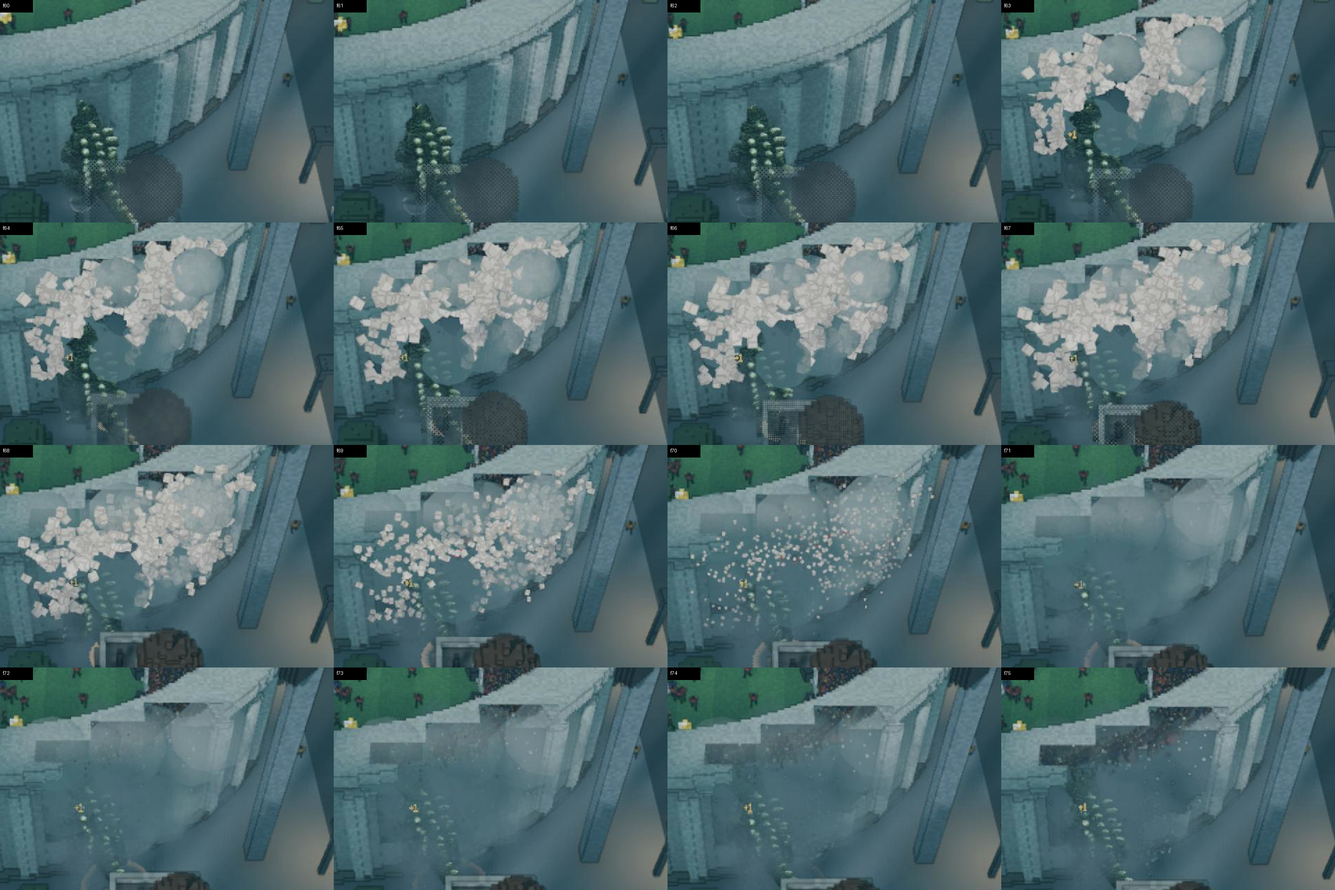
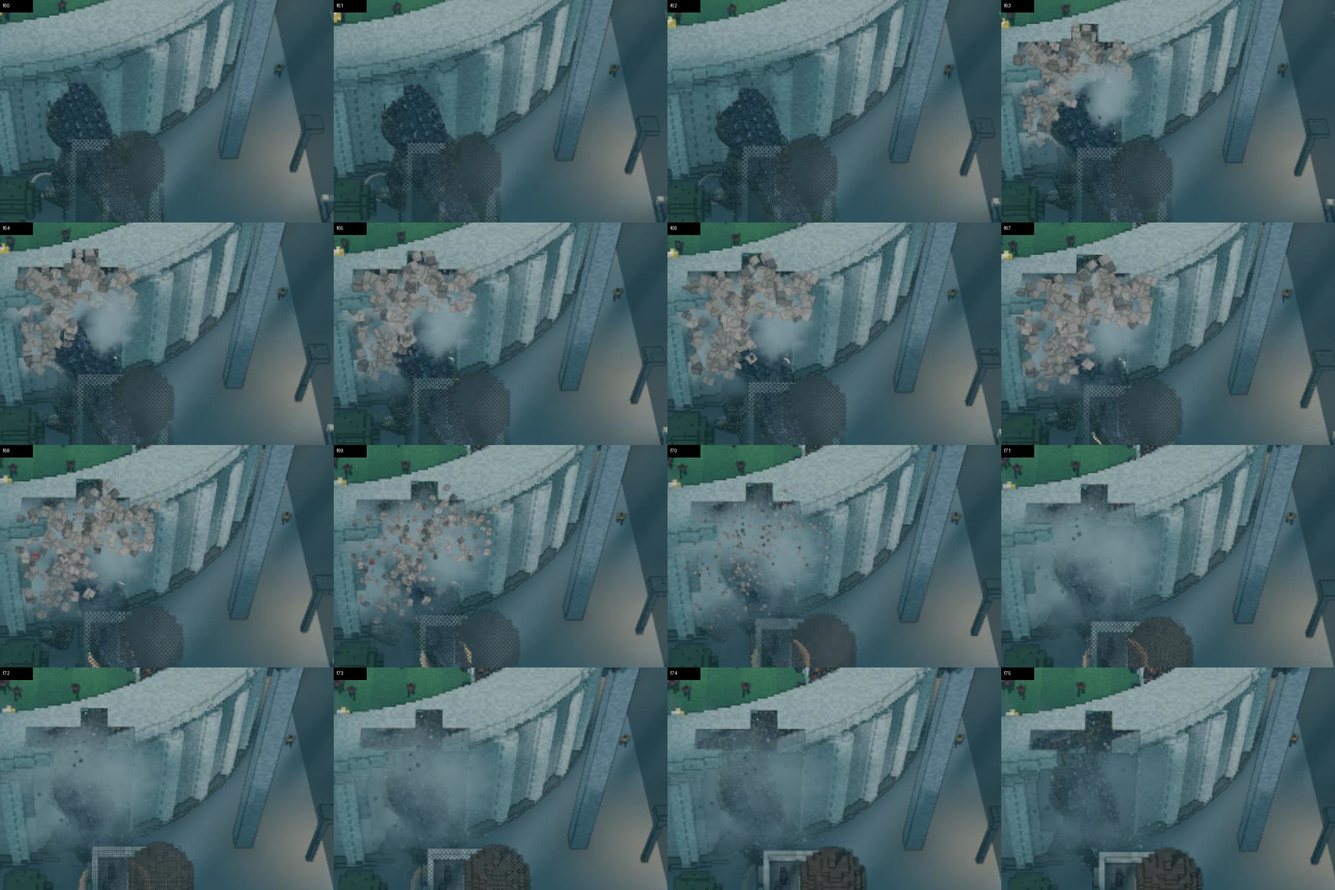
#59: burst strip at 4229d5f (darkened chunks, soft dust); landmarks handoff

diff --git a/agent-handoffs/landmarks.md b/agent-handoffs/landmarks.md
@@ -1,5 +1,5 @@
-# Landmarks handoff, 2026-10-19 03:10
-## State: awaiting lead (#59 burst fix sent for LEAD's own check and merge; head 0c01c61)
+# Landmarks handoff, 2026-10-19 04:40
+## State: awaiting lead (#59 r5 tweaks + resync pushed, head 4229d5f; LEAD checks the strip at 2x and merges on green)
 
 ## Task
 Landmarks role, reporting to LEAD ("Kaiju: Lead", local_106fc100...). PR bodies <= 8 lines, never
@@ -8,7 +8,7 @@ merge; LEAD does QA, critics, merges and the director.
   claude/look-options. Branch claude/landmarks stays on origin (never --delete-branch over a live
   worktree; LEAD prunes).
 - #59 stadium matches (D-078): branch claude/stadium-matches, base claude/look-options, ready
-  for review, head 0379e4a. Full suite + harness green there (flow 141 = 138 + 3).
+  for review, head 4229d5f. Full suite green there (flow 146 = 139 + 7).
 One worktree (../Kaiju-Incremental-wt/landmarks), now on claude/stadium-matches.
 
 ## #57 as merged
@@ -44,6 +44,11 @@ One worktree (../Kaiju-Incremental-wt/landmarks), now on claude/stadium-matches.
   shadow). Suite green there (flow 145). Frame time crowd off/on (1080p, before no-shadow):
   frame 12.8 -> 15.6 ms, GPU 10.5 -> 13.3 ms; re-time when the director is not fullscreen.
   Slot passed to croc #54 (then #50). Re-render on CI (director in a fullscreen game).
+- Round 5b (LEAD's 2x check: core PASS): merged look-options with #54 (ad0a773; floors city 23,
+  growth 26, flow 146); 4229d5f: chunks in the wall's albedo x0.65, 30% at x0.45, unshaded
+  (tuning chunk_shade / chunk_dark / chunk_dark_share); dust = 7 soft smoke.gdshader billboards
+  (Fx's step puff, MultiMesh, centre_keep 1) instead of spheres. Strip re-rendered
+  (scratchpad local_strip.sh). Proof LEAD asked: strip only + suite. Chunks read warm beige.
 - Round 5 (2821786, captures 0c01c61): r4 passed bar one blocker (burst read as a vanish).
   LandmarkBurst now: 7 opaque dust balls on the break frame + ~360 lit 2-3 voxel chunks flung
   outward for 0.3 s + 40 physics fragments (tuning.json "landmark_burst"). Strip
@@ -65,18 +70,6 @@ One worktree (../Kaiju-Incremental-wt/landmarks), now on claude/stadium-matches.
   Crowd CPU: calm 0.015 ms, flee 6.2 -> 1.5 ms (cached cfg, no trig, STRIDE 3). GPU 1080p
   off/on: frame 5.85/5.82, GPU 3.97/4.19 ms. Ball still small at game cam (offer 3x).
   No GPU baton now (LEAD: up to 3 windowed at once while the director is away).
-- DONE: CI round 2 captures committed 1299868; clip notes landmarks/afl_crowd_r2_720p.mp4;
-  paths sent to LEAD. Open: re-time crowd with no shadows on the local GPU when allowed.
-- (was) On CI landing: copy stills to docs/captures/2026-10-18-matches/, crops (afl/nfl/soccer/
-  cricket _2x, crowd_stand_2x, afl_after_2x), mp4 to notes landmarks/, PR body, paths to LEAD.
-- After the slot: pass it on as LEAD/greenery say. If round 2 fails, LEAD changes method
-  (demo with sections bursting in place only).
-- NEXT on the GPU slot: scratchpad local_crowd.sh (stills, --frametime off/on, clip; mp4 to
-  720p). Then: 2x crop of a stand, commit stills, clip to notes landmarks/, paths + frame times
-  to LEAD, PR body update.
-- Earlier (pre-crowd): ready for review, base claude/look-options. Suite green at 3bc9f2e.
-- AFL clip rendered on the local GPU (scratchpad local_clip.sh): notes landmarks/afl_cave_in_720p.mp4
-  (mp4 is gitignored; Movie Maker wrote 1080p, scaled to 720p). Pair in docs/captures/2026-10-18-matches/.
 - Own check: ~3.4-4.0 s the stands sections toppling inward show their dark hollow undersides
   over the pitch, then burst. Proposed fix if the critic fails it: landmark sections drop in place
   instead of rotating over.
